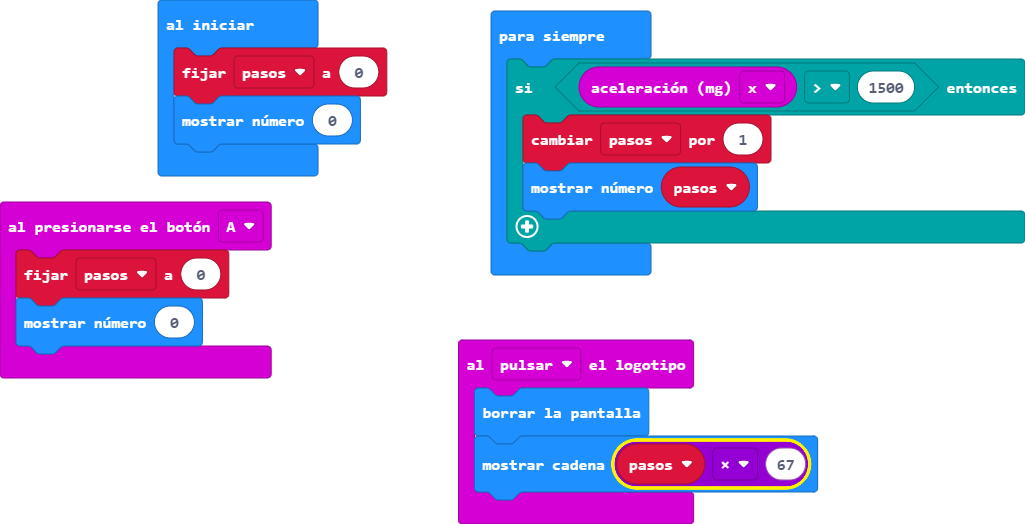
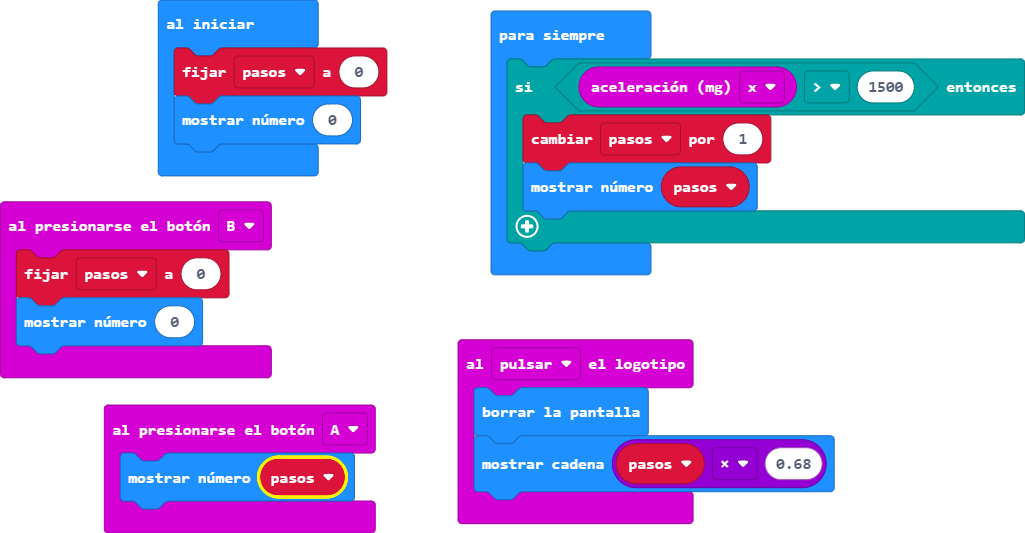
Actualizar main.blocks, main.ts

diff --git a/main.ts b/main.ts
@@ -1,8 +1,11 @@
 input.onLogoEvent(TouchButtonEvent.Pressed, function () {
     basic.clearScreen()
-    basic.showString("" + (pasos * 67))
+    basic.showString("" + (pasos * 0.68))
 })
 input.onButtonPressed(Button.A, function () {
+    basic.showNumber(pasos)
+})
+input.onButtonPressed(Button.B, function () {
     pasos = 0
     basic.showNumber(0)
 })
